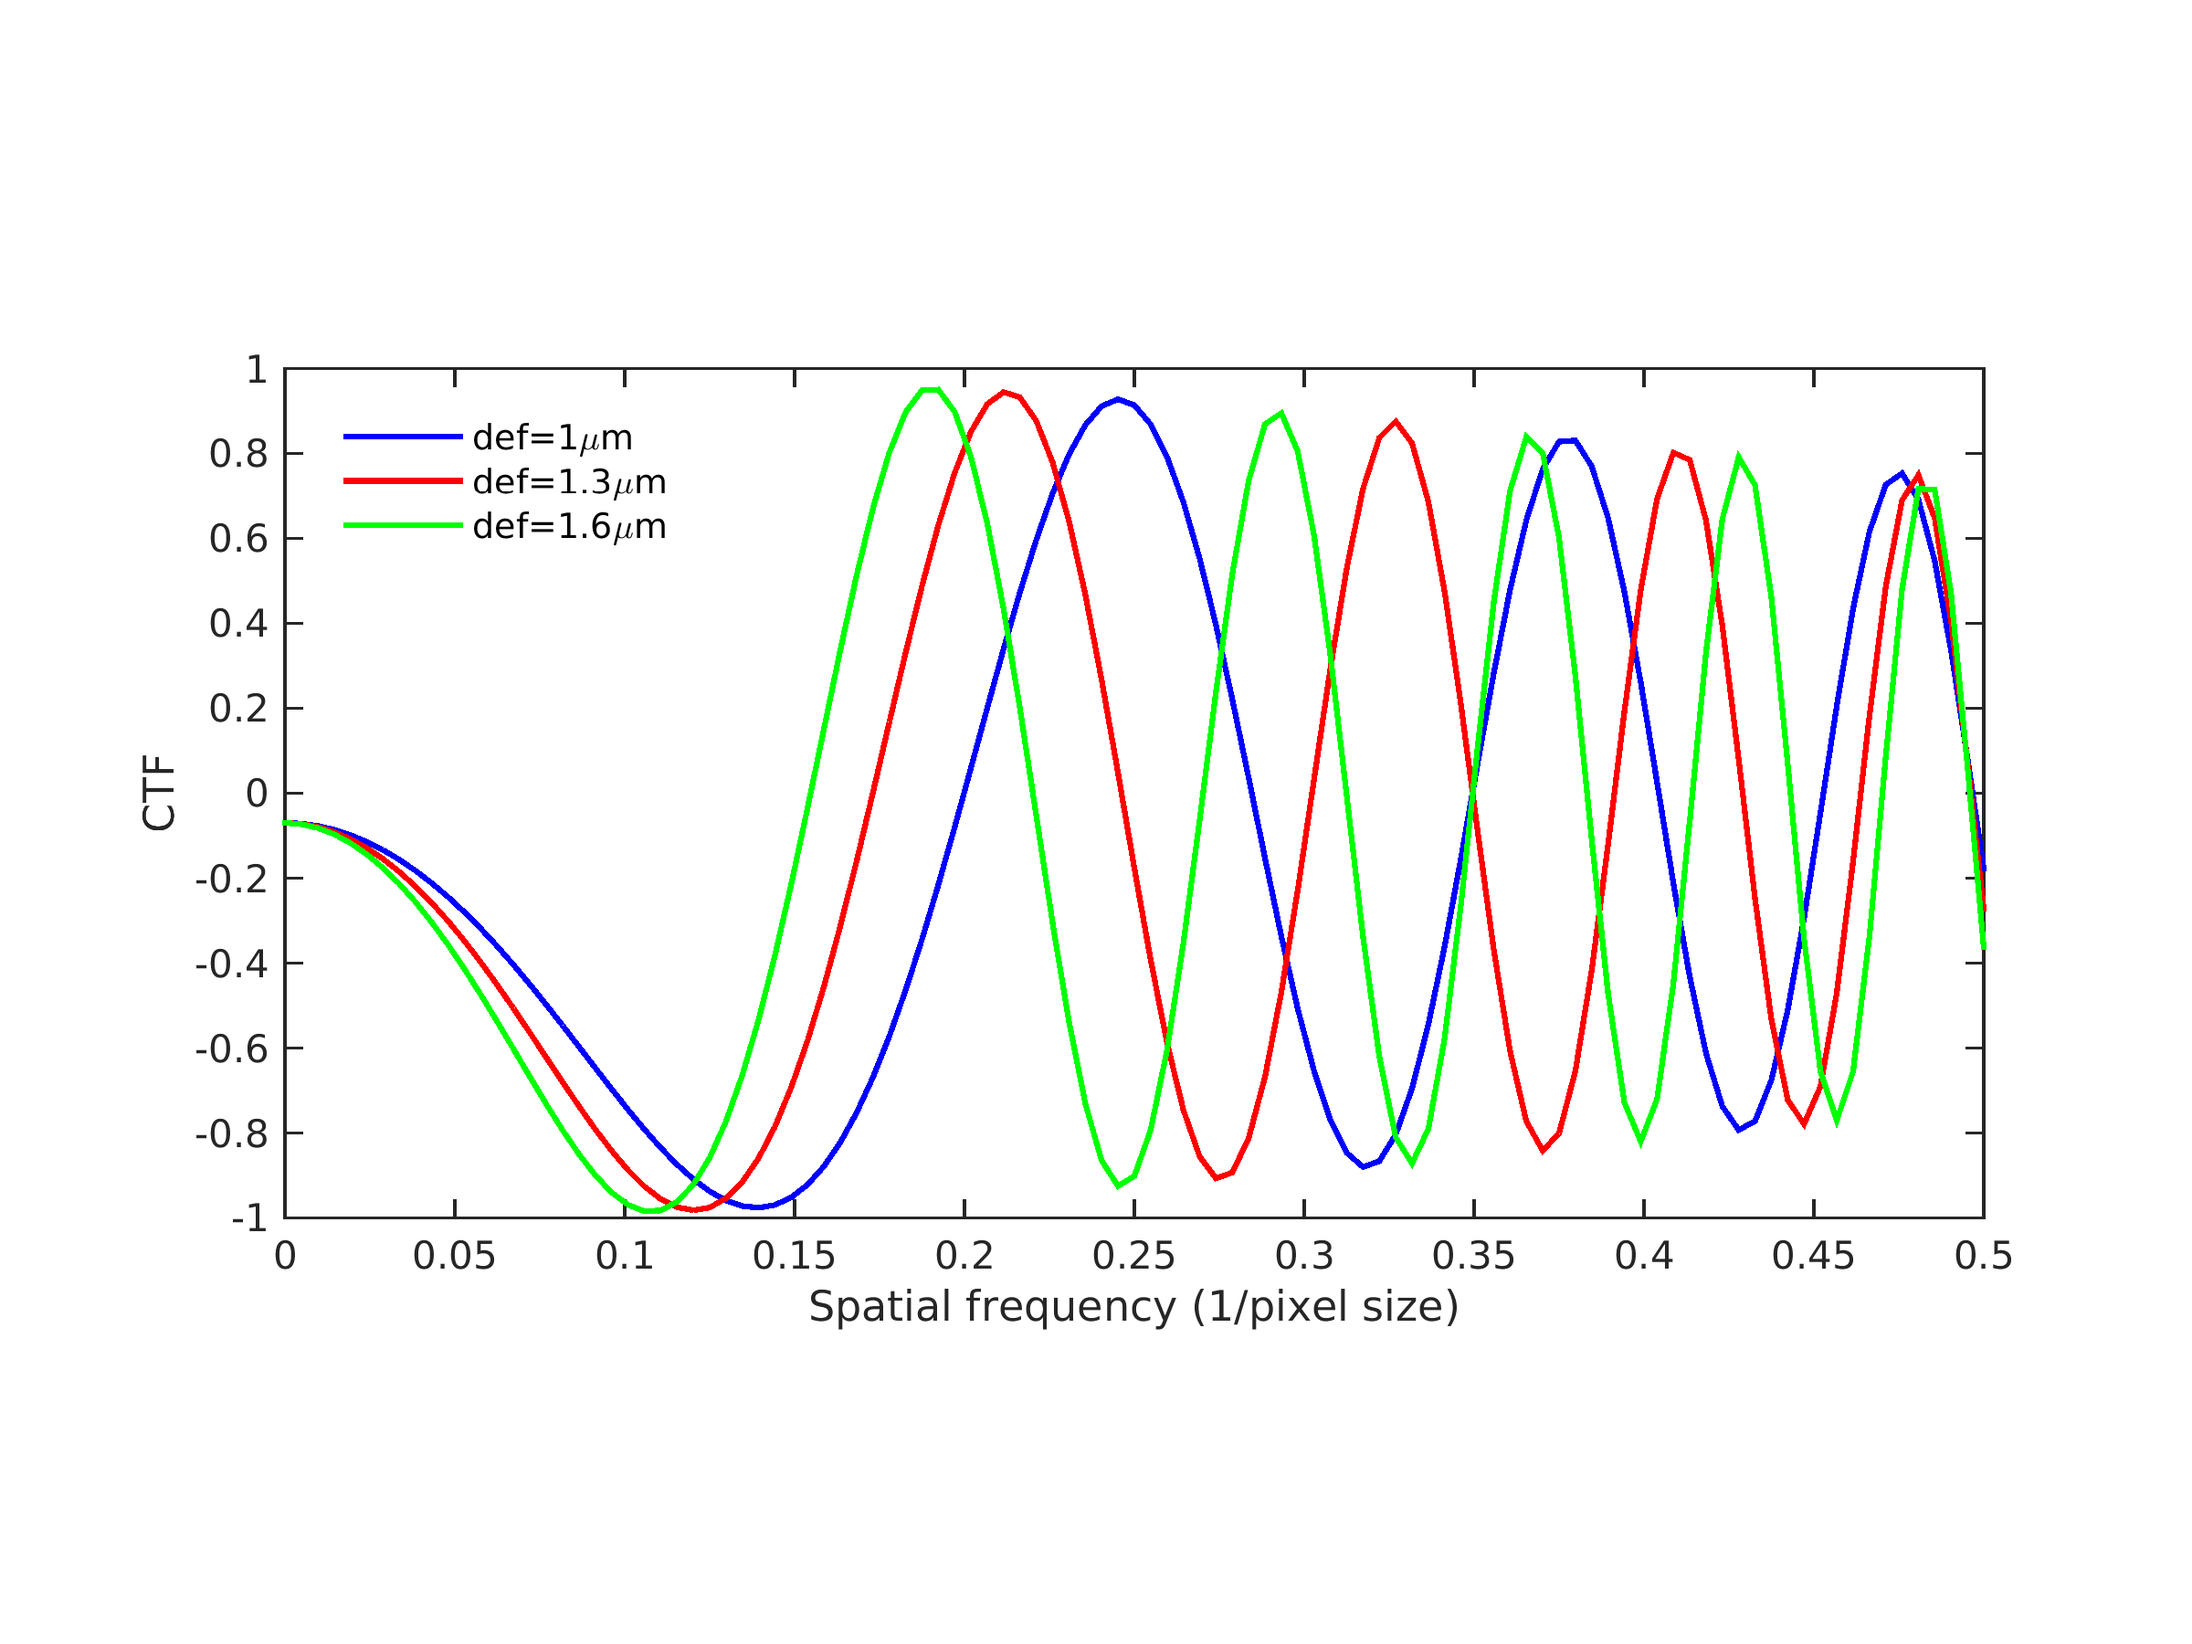
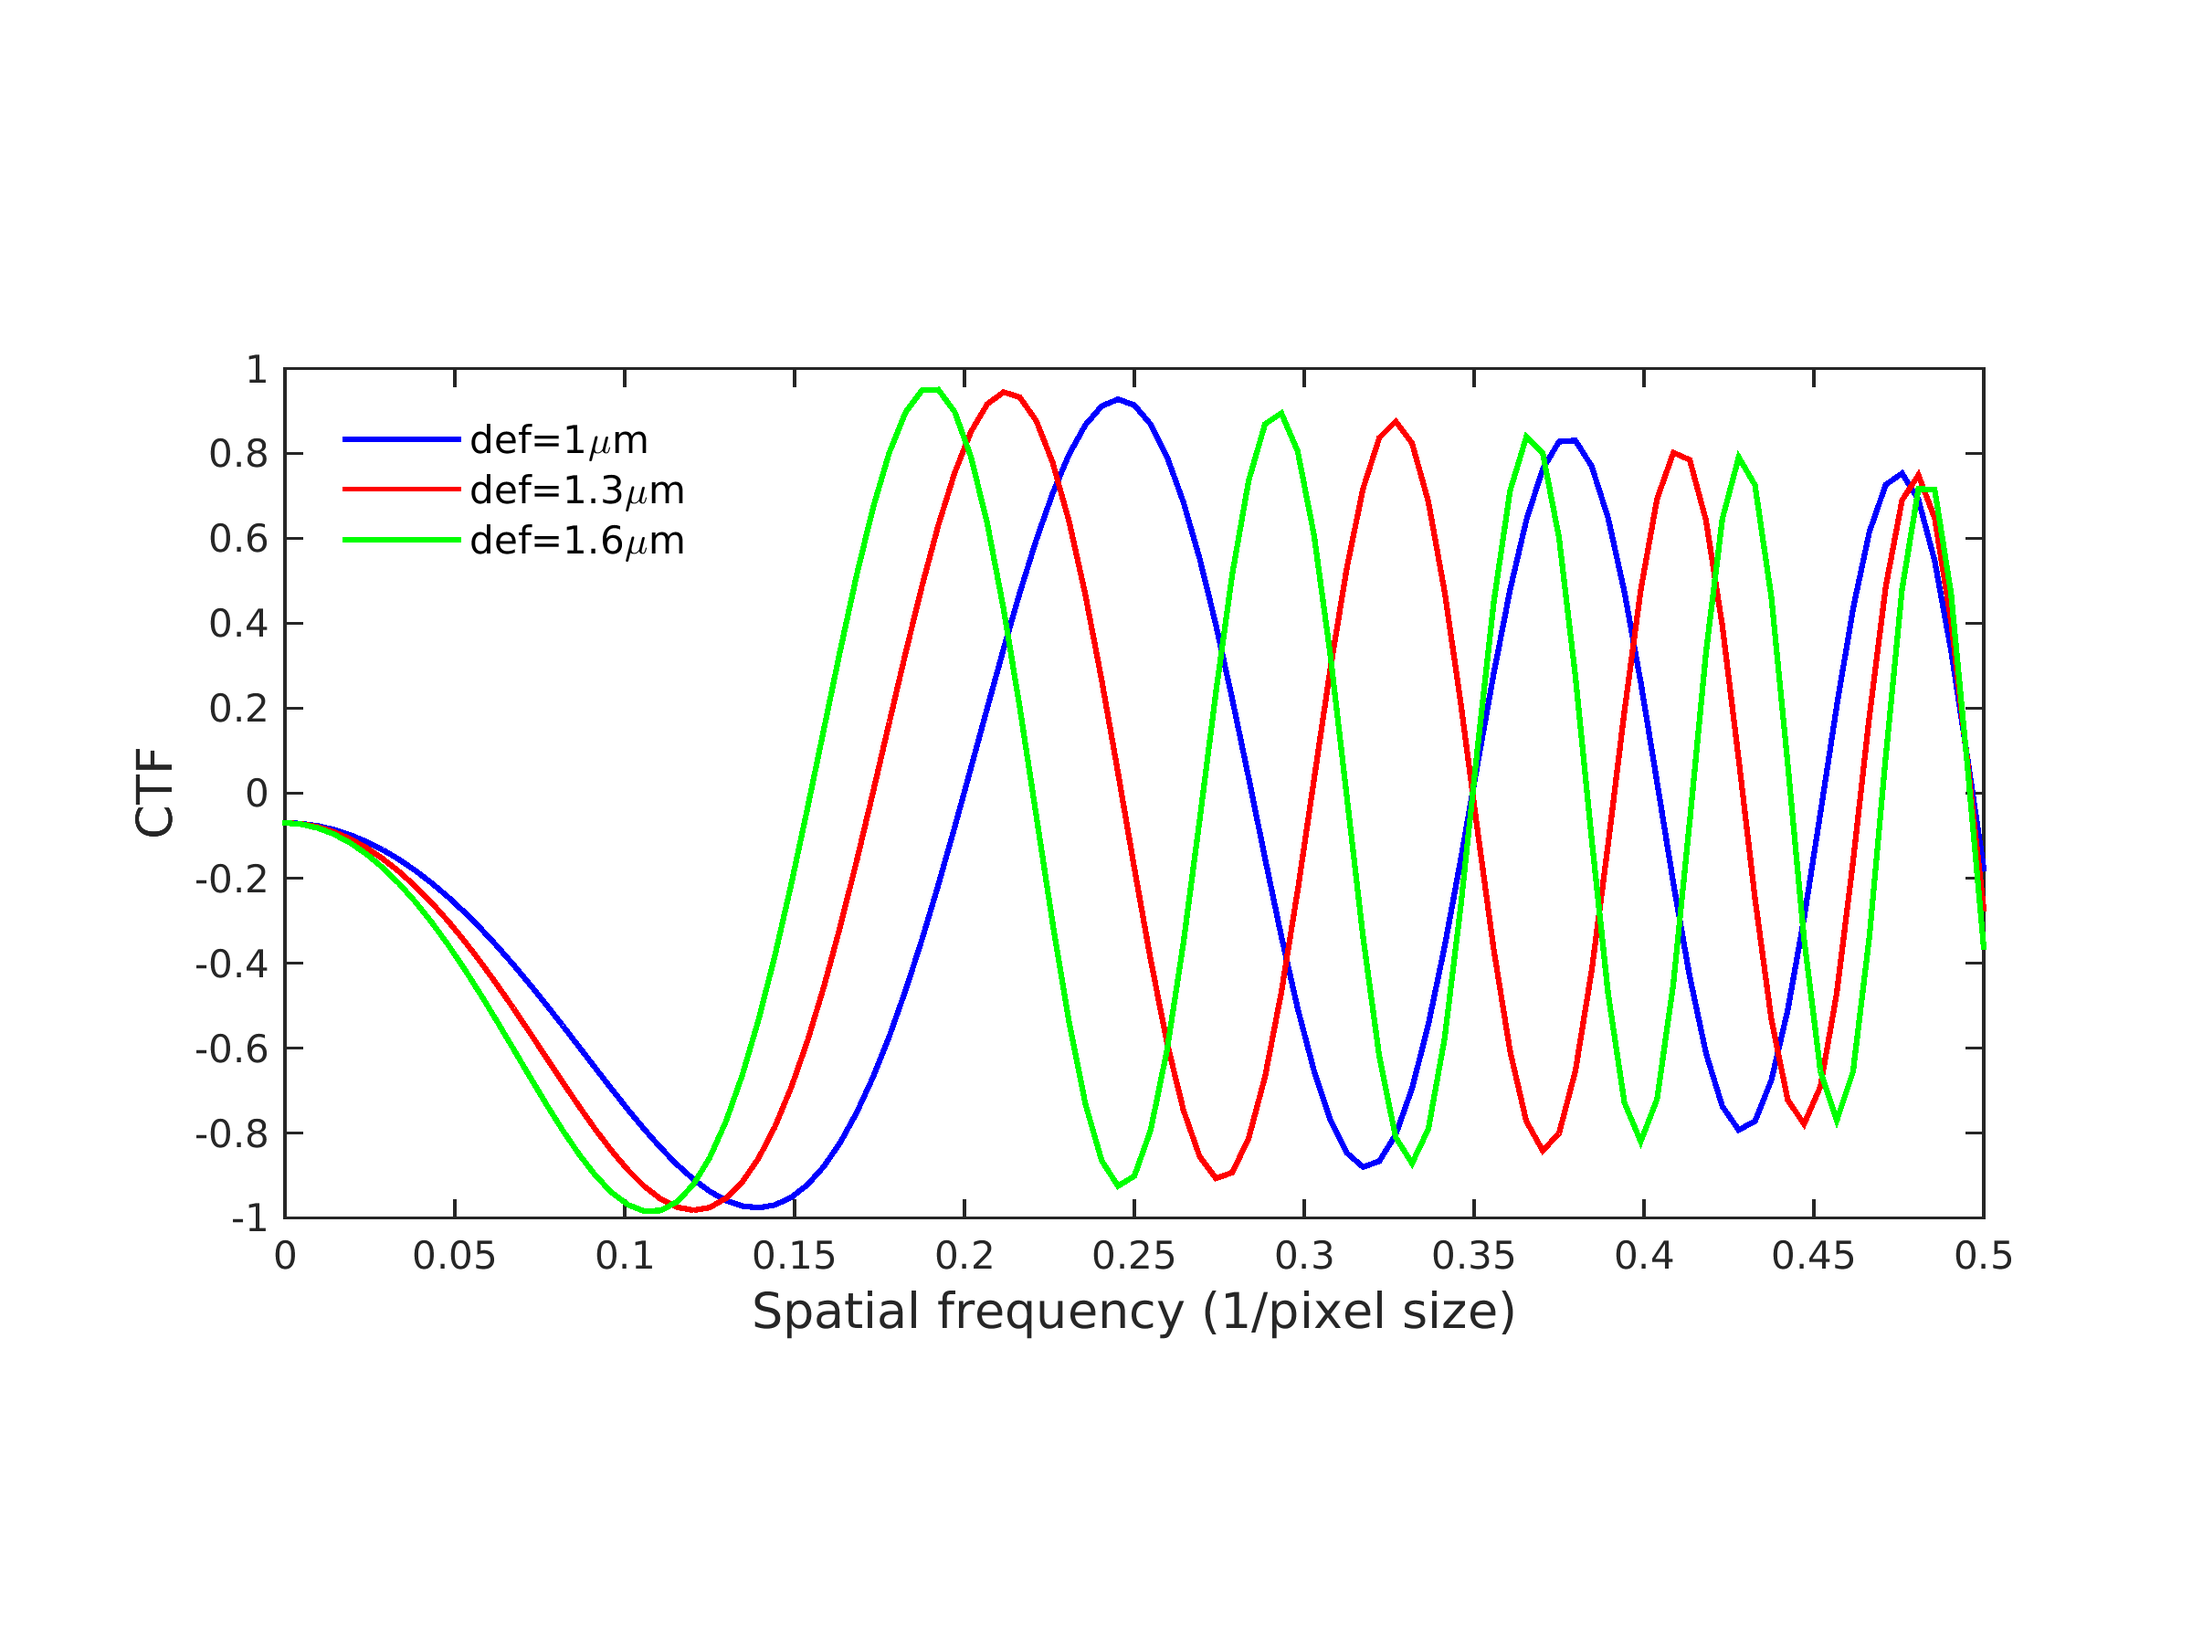
new fig

Changed region(s): [[0.1562, 0.2489, 0.3125, 0.3422], [0.3438, 0.7778, 0.6875, 0.8089], [0.0625, 0.4667, 0.0938, 0.4978]]

diff --git a/emd6454_proj.m b/emd6454_proj.m
@@ -3,8 +3,8 @@
 %is 129x129 pixels.
 pathstr='/scratch/ARCHIVE_from_sdl6/tbhamre/cwf_class/';
 
-K = 10000; %K is the number of images
-max_shift = 3; %maximum shift range
+K = 100000; %K is the number of images
+max_shift = 0; %maximum shift range
 step_size = 1;
 initstate;
 q = qrand(K);
@@ -26,5 +26,5 @@ data.shifts=shifts;
 %downsampleddim=65;
 %sprintf('Downsampling to %dX%d grid', downsampleddim, downsampleddim)
 %data.projections=cryo_downsample(data.projections,[downsampleddim downsampleddim],1);
-save(fullfile(pathstr,'clean_data_6454_65_shift3'), '-v7.3', 'data')
+save(fullfile(pathstr,'clean_data_6454_65_100k'), '-v7.3', 'data')
 %clear all;

diff --git a/ctfs_fig.m b/ctfs_fig.m
@@ -21,7 +21,7 @@ axis tight
 pbaspect([2 1 1])
 %set(gca,'XTickLabel',[0,0.1,0.2,0.3,0.4,0.5])
 ylim([-1,1])
-legend({'def=1\mum', 'def=1.3\mum', 'def=1.6\mum'},'location','NorthWest', 'Box', 'off','FontSize',9);
-xlabel('Spatial frequency (1/pixel size)','FontSize',11);
-ylabel('CTF','FontSize',11);
+legend({'def=1\mum', 'def=1.3\mum', 'def=1.6\mum'},'location','NorthWest', 'Box', 'off','FontSize',10);
+xlabel('Spatial frequency (1/pixel size)','FontSize',13);
+ylabel('CTF','FontSize',13);
 print('~/cwf_classavg/paper/ctfeg_fig', '-dpng', '-r300'); %<-Save as PNG with 300 DPI
